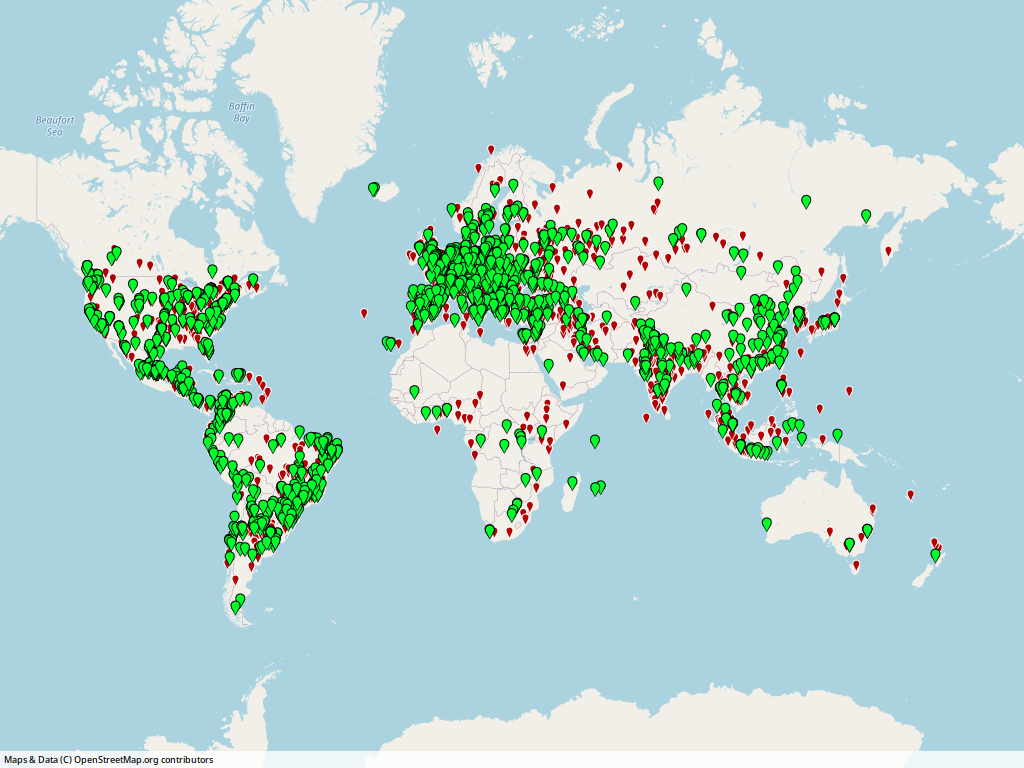
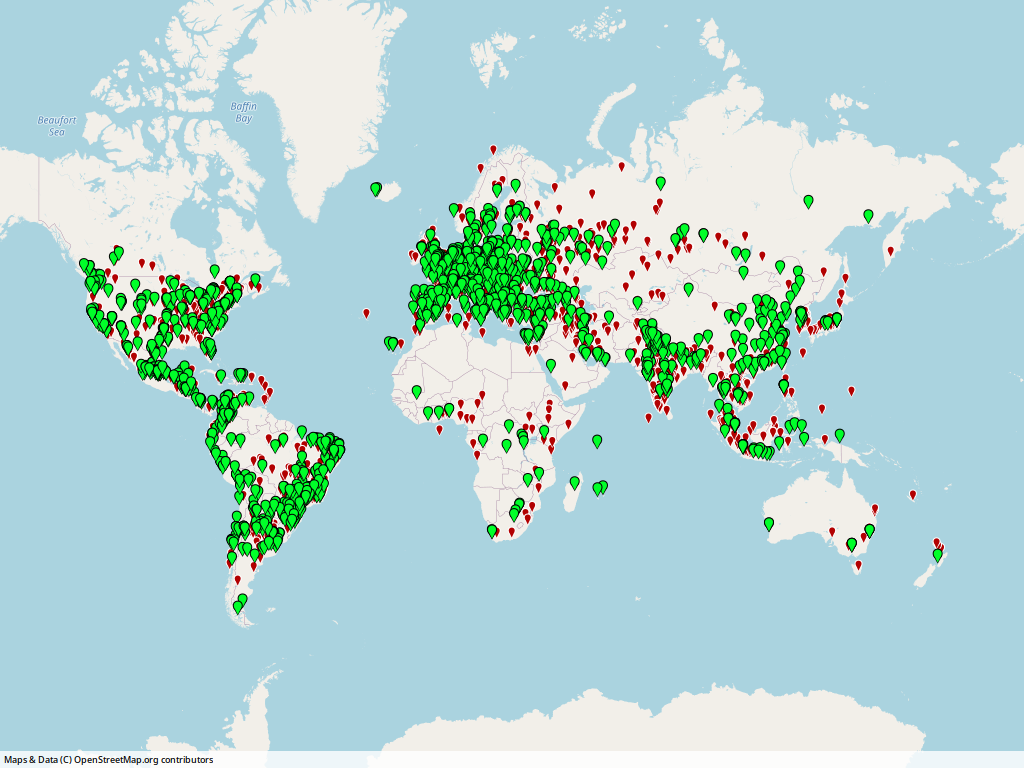
format mapsgen, updt map_thumb

diff --git a/mapsgen.py b/mapsgen.py
@@ -15,8 +15,9 @@ def map200(geolocs):
     for loc in geolocs:
         lat = float(loc[0].split(',')[0])
         lon = float(loc[0].split(',')[1])
-        marca200 = staticmaps.create_latlng(lat,lon)
-        cntxt200.add_object(staticmaps.Marker(marca200, color=staticmaps.parse_color('#00ff29'), size=7))
+        marca200 = staticmaps.create_latlng(lat, lon)
+        cntxt200.add_object(staticmaps.Marker(
+            marca200, color=staticmaps.parse_color('#00ff29'), size=7))
 
     svg_image = cntxt200.render_svg(1920, 1080)
     with open(f"{selfpath}/maps/map_200.svg", "w", encoding="utf-8") as f:
@@ -30,8 +31,9 @@ def map300(geolocs):
     for loc in geolocs:
         lat = float(loc[0].split(',')[0])
         lon = float(loc[0].split(',')[1])
-        marca300 = staticmaps.create_latlng(lat,lon)
-        cntxt300.add_object(staticmaps.Marker(marca300, color=staticmaps.parse_color('#b20101'), size=5))
+        marca300 = staticmaps.create_latlng(lat, lon)
+        cntxt300.add_object(staticmaps.Marker(
+            marca300, color=staticmaps.parse_color('#b20101'), size=5))
 
     svg_image = cntxt300.render_svg(1920, 1080)
     with open(f"{selfpath}/maps/map_300.svg", "w", encoding="utf-8") as f:
@@ -49,13 +51,15 @@ def maps_gen(locs_200, locs_300):
         lat = float(loc[0].split(',')[0])
         lon = float(loc[0].split(',')[1])
         marca3 = staticmaps.create_latlng(lat, lon)
-        cntxtAll.add_object(staticmaps.Marker(marca3, color=staticmaps.parse_color('#b20101'), size=5))
+        cntxtAll.add_object(staticmaps.Marker(
+            marca3, color=staticmaps.parse_color('#b20101'), size=5))
 
     for loc in locs_200:
         lat = float(loc[0].split(',')[0])
         lon = float(loc[0].split(',')[1])
-        marca3 = staticmaps.create_latlng(lat,lon)
-        cntxtAll.add_object(staticmaps.Marker(marca3, color=staticmaps.parse_color('#00ff29'), size=6))
+        marca3 = staticmaps.create_latlng(lat, lon)
+        cntxtAll.add_object(staticmaps.Marker(
+            marca3, color=staticmaps.parse_color('#00ff29'), size=6))
 
     svg_image = cntxtAll.render_svg(1920, 1080)
     with open(f"{selfpath}/maps/map_all.svg", "w", encoding="utf-8") as f:
@@ -74,13 +78,15 @@ def maps_thumbs(locs_200, locs_300):
         lat = float(loc[0].split(',')[0])
         lon = float(loc[0].split(',')[1])
         demo300 = staticmaps.create_latlng(lat, lon)
-        cntxtdemo.add_object(staticmaps.Marker(demo300, color=staticmaps.parse_color('#b20101'), size=4))
+        cntxtdemo.add_object(staticmaps.Marker(
+            demo300, color=staticmaps.parse_color('#b20101'), size=4))
 
     for loc in locs_200:
         lat = float(loc[0].split(',')[0])
         lon = float(loc[0].split(',')[1])
-        demo200 = staticmaps.create_latlng(lat,lon)
-        cntxtdemo.add_object(staticmaps.Marker(demo200, color=staticmaps.parse_color('#00ff29'), size=5))
+        demo200 = staticmaps.create_latlng(lat, lon)
+        cntxtdemo.add_object(staticmaps.Marker(
+            demo200, color=staticmaps.parse_color('#00ff29'), size=5))
 
     svg_thumb = cntxtdemo.render_svg(1024, 768)
     with open(f"{selfpath}/maps/map_thumb.svg", "w", encoding="utf-8") as f:
